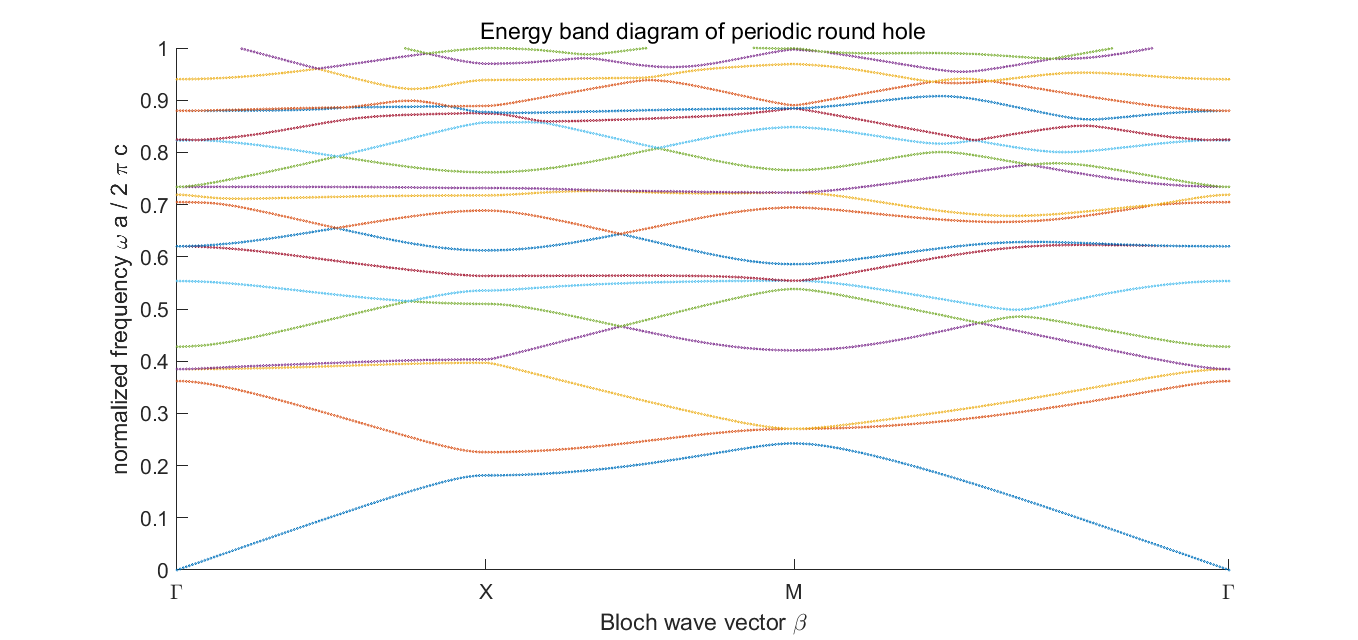
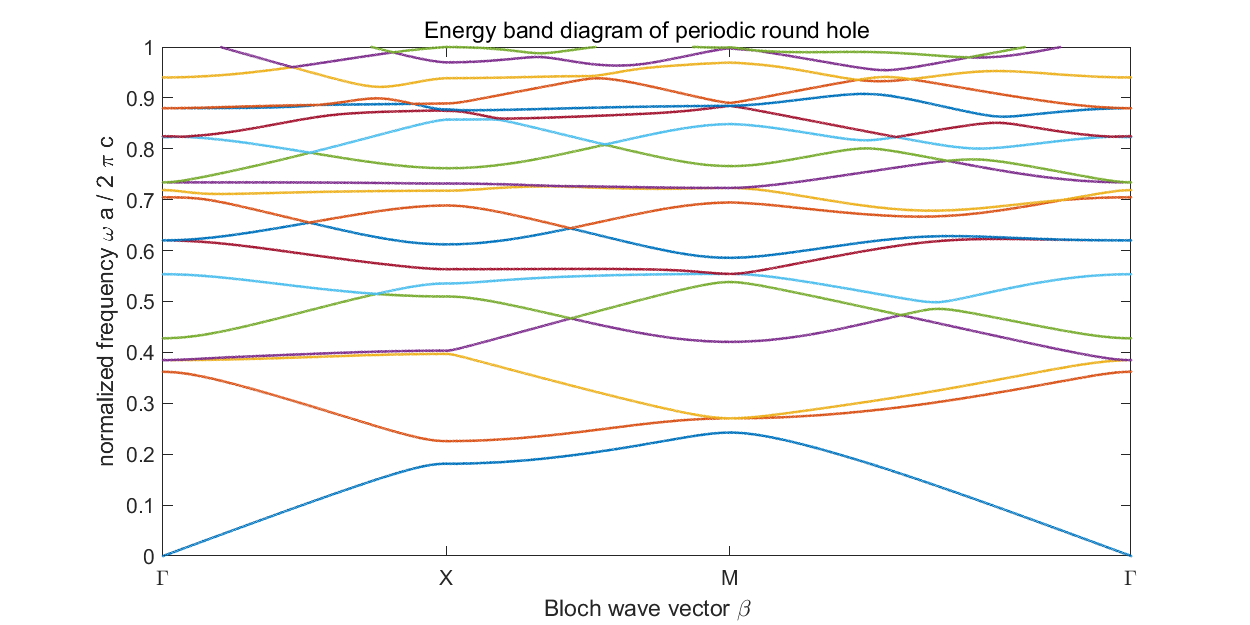
add field mode visualization

diff --git a/PWEM/pwem2.m b/PWEM/pwem2.m
@@ -20,7 +20,8 @@ Q = 7;
 % a round hole with radius r
 r = 0.35 * a;
 % relative dielectric constant of substrate
-epsilon_r = 9.0;
+epsilon_r_out = 1.5;
+epsilon_r_in = 2.5;
 
 % physical constant
 
@@ -33,7 +34,7 @@ Dy = a / Ny;
 
 % define the permittivity and permeability field
 UR = ones(Nx, Ny);
-ER = ones(Nx, Ny);
+ER = epsilon_r_in * ones(Nx, Ny);
 
 for i = 1 : Nx
     for j = 1 : Ny
@@ -41,7 +42,7 @@ for i = 1 : Nx
         real_y = -0.5 * a + Dy * (j - 0.5);
         
         if (real_x * real_x + real_y * real_y > r * r)
-            ER(i, j) = epsilon_r;
+            ER(i, j) = epsilon_r_out;
         end
     end
 end
@@ -60,7 +61,7 @@ Gamma = [0; 0];
 CHI = 0.5 * T1;
 M = 0.5 * T1 + 0.5 * T2;
 
-Nb = 100;
+Nb = 200;
 NB = 1 + 2  * Nb + round(sqrt(2) * Nb);
 beta = zeros(2, NB);
 
@@ -116,5 +117,17 @@ ylabel('normalized frequency \omega a / 2 \pi c');
 set(gca,'xtick',[1 Nb+1 2*Nb+1 NB]);
 set(gca,'xticklabel',{'\Gamma','X','M','\Gamma'});
 xlabel('Bloch wave vector \beta');
-title('Energy band diagram of periodic round hole');
+title('Energy band diagram of round waveguide');
+box on;
 saveas(fig, 'energyband.png');
+
+% the final recorded would be Gamma
+% the first with non-zero energy
+X = -0.5 * a + Dx * ((1:Nx) - 0.5);
+Y = -0.5 * a + Dy * ((1:Ny) - 0.5);
+[Y, X] = meshgrid(Y, X);
+
+for i = 1 : 8
+    mode_visualize(V, i, [0;0], P, Q, X, Y, 0.35);
+end
+

diff --git a/PWEM/mode_visualize.m b/PWEM/mode_visualize.m
@@ -1,0 +1,35 @@
+function mode_visualize(V, i, beta, P, Q, X, Y, r)
+    close all;
+    [Nx, Ny] = size(X);
+    S = reshape(V(:, i), [P, Q]);
+       
+    nxc = ceil(Nx/2);
+    nx1 = nxc - floor(P/2);
+    nx2 = nxc + floor(P/2);
+    nyc = ceil(Ny/2);
+    ny1 = nyc - floor(Q/2);
+    ny2 = nyc + floor(Q/2);
+    
+    
+    sf = zeros(Nx,Ny);
+    sf(nx1:nx2,ny1:ny2) = S;
+    az = ifft2(ifftshift(sf));
+    az = az / max(abs(az(:)));
+    
+    phase = exp(-1i*( beta(1) * X + beta(2) * Y));
+    
+    imagesc(abs(phase .* az));
+    axis equal tight;
+    
+    hold on;
+    phi = linspace(0,2*pi,50);
+    x = Nx / 2 + r * Nx * cos(phi);
+    y = Ny / 2 + r * Ny * sin(phi);
+    plot(x, y, '-k');
+    
+    axis equal tight;
+    title_str = sprintf('mode_%d.png', i);
+    set(gca,'xtick',[]);
+    set(gca,'ytick',[]);
+    saveas(gcf, title_str);
+end
